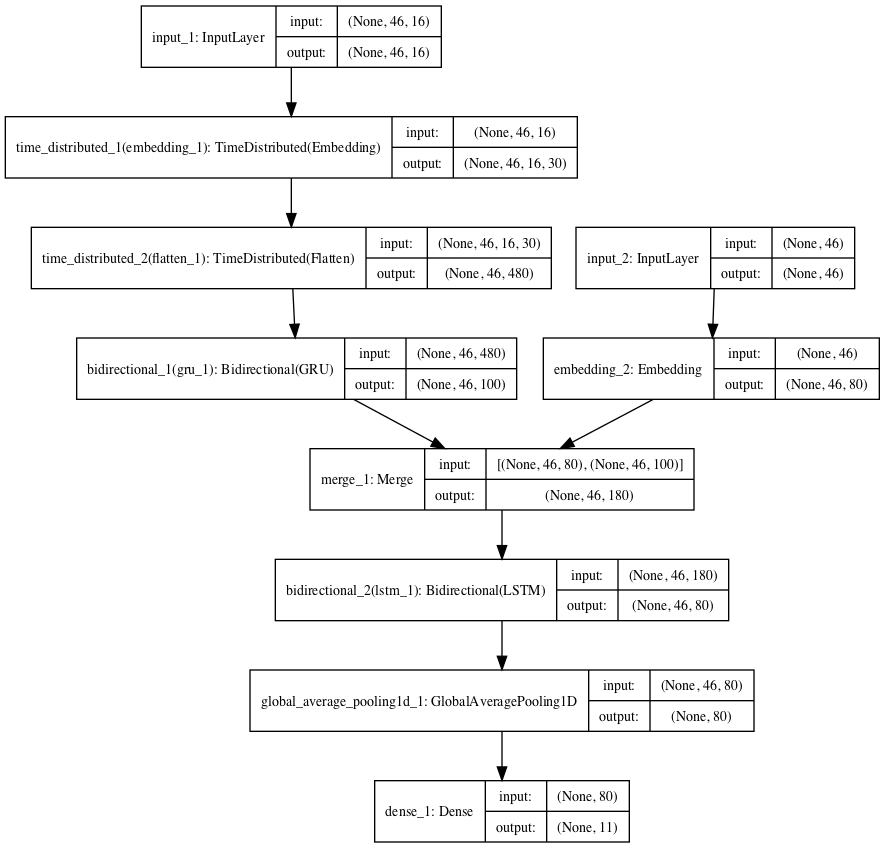
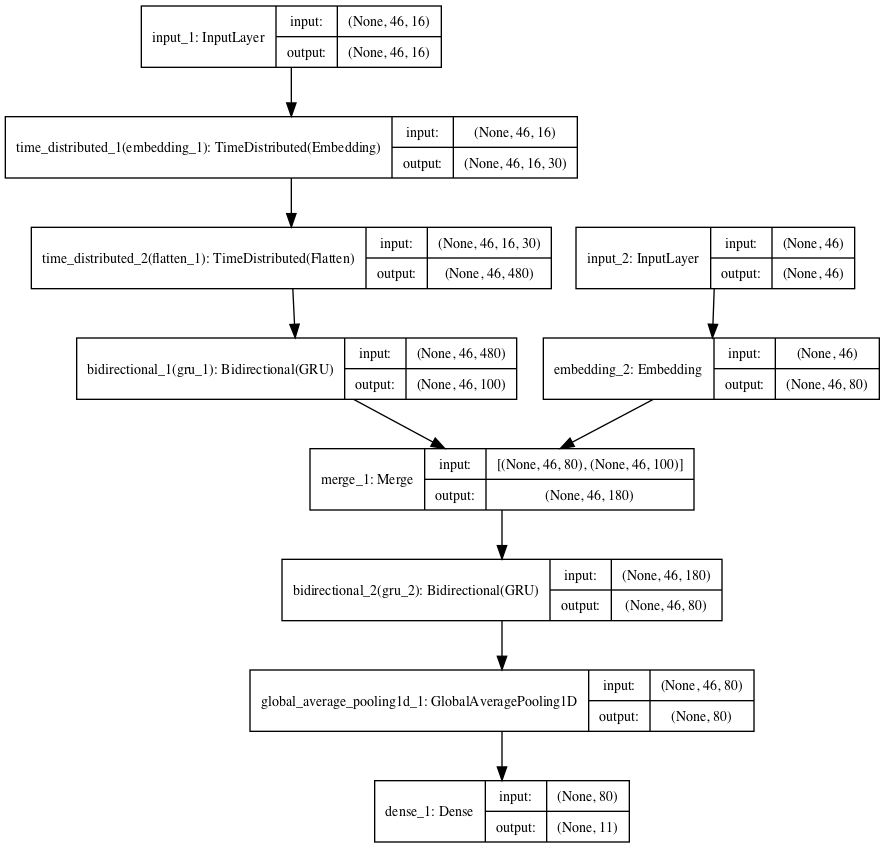
update rnn, 46th row

Changed region(s): [[0.3051, 0.6745, 0.8237, 0.7358]]

diff --git a/code/twitter_sentiment_rnn.py b/code/twitter_sentiment_rnn.py
@@ -7,7 +7,7 @@ from vocabulary import *
 from itertools import chain
 from keras.models import Sequential , Model
 import keras.optimizers
-from keras.layers import Dense, Merge, Embedding, Conv1D, MaxPooling1D, Flatten, GRU, Bidirectional, Input, Reshape,Convolution2D, TimeDistributed, Convolution1D, merge, LSTM, Dropout, GlobalAveragePooling1D
+from keras.layers import Dense, Merge, Embedding, Conv1D, MaxPooling1D, Flatten, LSTM, Bidirectional, Input, Reshape,Convolution2D, TimeDistributed, Convolution1D, merge, GRU, Dropout, GlobalAveragePooling1D
 from keras.callbacks import EarlyStopping
 from keras.utils import plot_model
 import pydot
@@ -236,11 +236,11 @@ def twitter_rnn(char_vocabulary_size: int, word_vocabulary_size: int, word_len: 
     word_embedding = Embedding(input_dim=word_vocabulary_size, output_dim = __emb_dim, input_length=sentence_length)(input2)
 
     concat1 = merge([word_embedding, char_rnn], mode='concat')
-    blstm = Bidirectional(LSTM(output_dim=80, init='uniform', inner_init='uniform', forget_bias_init='one', return_sequences=True, activation='tanh', inner_activation='sigmoid'), merge_mode='sum')(concat1)
-    # dropper = Dropout(0.2)(blstm)
+    bGRU = Bidirectional(GRU(output_dim=80, init='uniform', inner_init='uniform', return_sequences=True, activation='tanh', inner_activation='sigmoid'), merge_mode='sum')(concat1)
+    # dropper = Dropout(0.2)(bGRU)
     # dense = TimeDistributed(Dense(n_outputs, activation='sigmoid'))(dropper)
     # 
-    avgpool1 =  GlobalAveragePooling1D()(blstm) 
+    avgpool1 =  GlobalAveragePooling1D()(bGRU) 
     dense = Dense(n_outputs, activation='sigmoid')(avgpool1)
 
     model = Model(inputs=[input1, input2], outputs=dense)
@@ -271,7 +271,7 @@ def twitter_rnn(char_vocabulary_size: int, word_vocabulary_size: int, word_len: 
     # model.compile(loss='binary_crossentropy', optimizer='Adam', metrics=['accuracy'])
 
     print(model.summary())
-    plot_model(model, show_shapes = True, to_file='rnn45.png')
+    plot_model(model, show_shapes = True, to_file='rnn46.png')
 
     kwargs = {'callbacks': [EarlyStopping(monitor='val_loss', min_delta=0.0001, patience=5, verbose=0, mode='auto')], 'batch_size': 32}
 
@@ -332,11 +332,11 @@ def twitter_cnn_rnn(char_vocabulary_size: int, word_vocabulary_size: int, word_l
     word_embedding = Embedding(input_dim=word_vocabulary_size, output_dim = __emb_dim, input_length=sentence_length)(input2)
 
     concat1 = merge([word_embedding, flat], mode='concat')
-    blstm = Bidirectional(LSTM(output_dim=80, init='uniform', inner_init='uniform', forget_bias_init='one', return_sequences=True, activation='tanh', inner_activation='sigmoid'), merge_mode='sum')(concat1)
-    # dropper = Dropout(0.2)(blstm)
+    bGRU = Bidirectional(GRU(output_dim=80, init='uniform', inner_init='uniform', return_sequences=True, activation='tanh', inner_activation='sigmoid'), merge_mode='sum')(concat1)
+    # dropper = Dropout(0.2)(bGRU)
     # dense = TimeDistributed(Dense(n_outputs, activation='sigmoid'))(dropper)
     # 
-    avgpool1 =  GlobalAveragePooling1D()(blstm) 
+    avgpool1 =  GlobalAveragePooling1D()(bGRU) 
     dense = Dense(n_outputs, activation='sigmoid')(avgpool1)
 
     model = Model(inputs=[input1, input2], outputs=dense)
